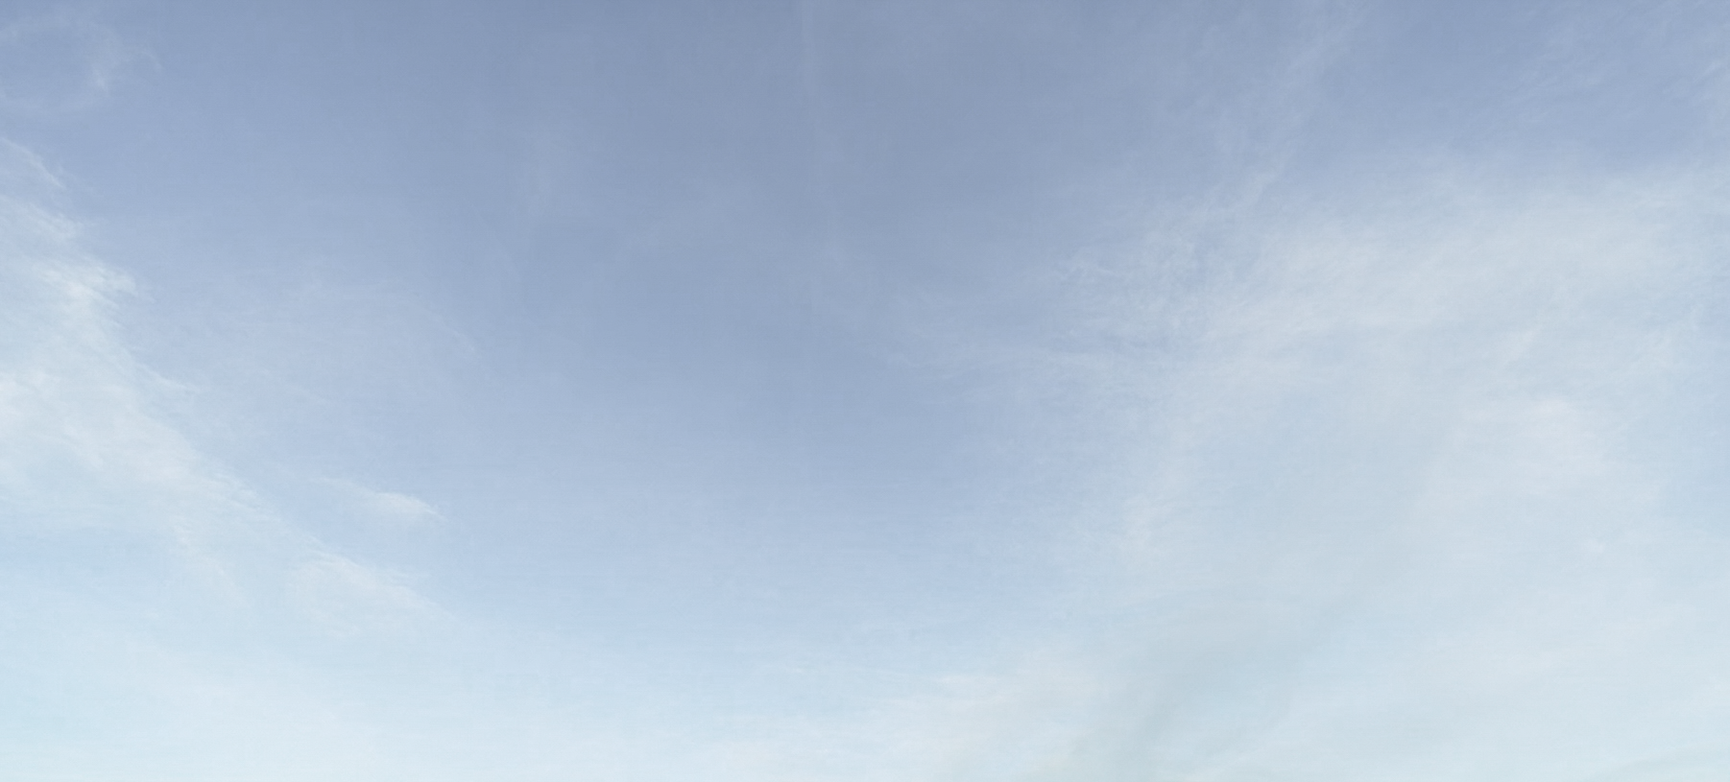
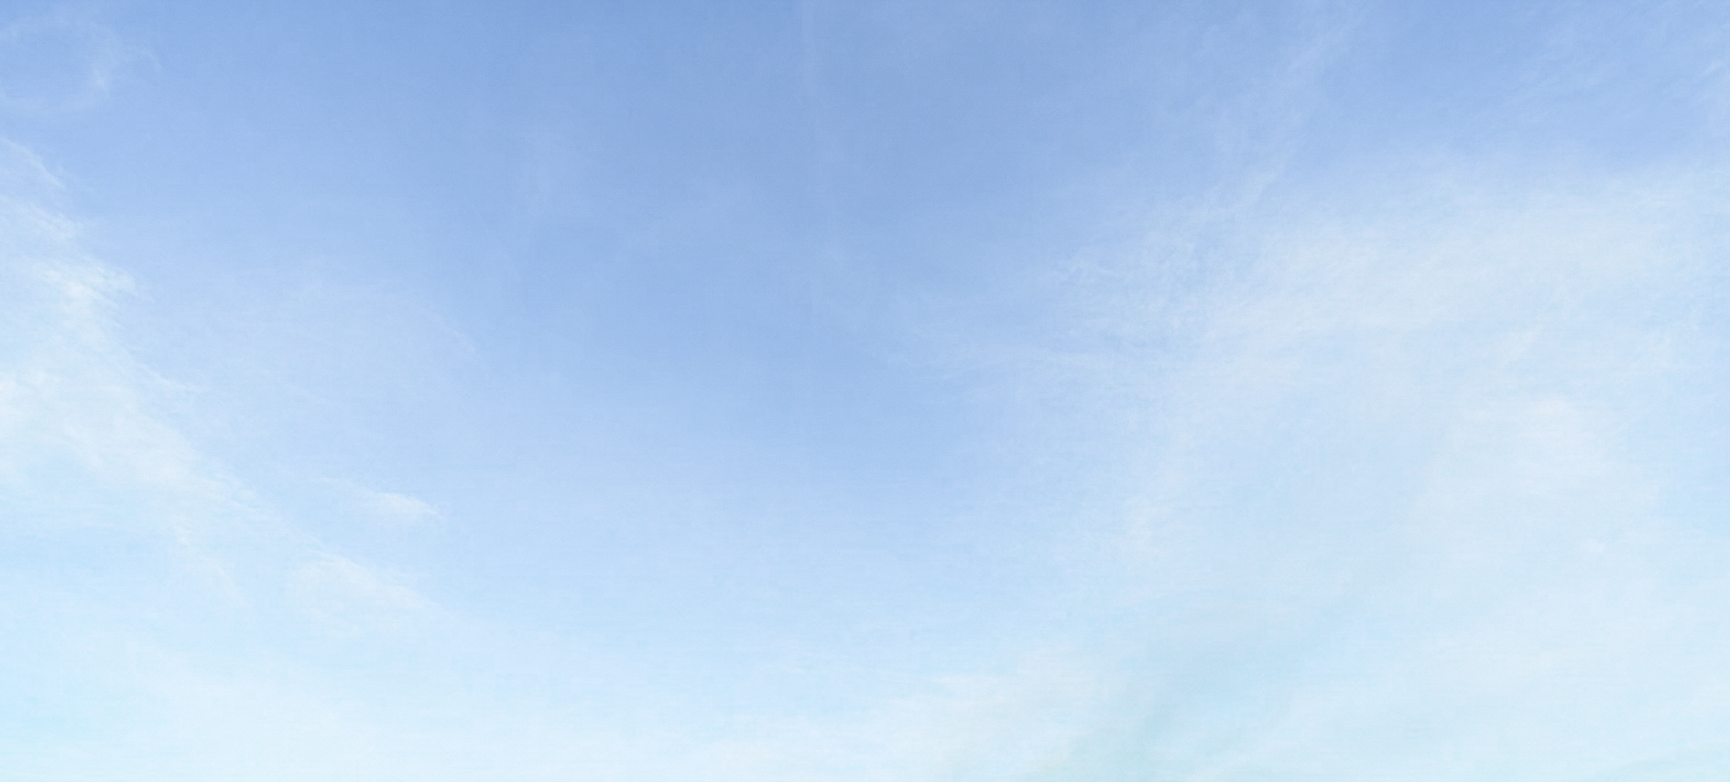
update

diff --git a/src/bottomBanner/details/Cargo/details/delivery/index.js.js b/src/bottomBanner/details/Cargo/details/delivery/index.js.js
@@ -5,18 +5,18 @@ import Warehouse from './details/warehouse';
 
 const Delivery = () => {
   return (
-    <div className='flex flex-col desktop:w-[592px] mobile:w-[346px] desktop:h-[756px] mobile:h-[442px] desktop:rounded-2xl mobile:rounded-[9.351px] relative overflow-hidden z-40 bg-[#FFFFFF]'>
+    <div className='flex relative flex-col desktop:w-[592px] mobile:w-[346px] desktop:h-[756px] mobile:h-[441px] desktop:rounded-2xl mobile:rounded-[9.351px] relative overflow-hidden z-40 bg-[#FFFFFF]'>
         <div className='flex flex-col desktop:mt-[31px] mobile:mt-[20px] desktop:ml-[37px] mobile:ml-[21.63px]'>
             <div className='desktop:w-[450px] mobile:w-[285px] desktop:h-[192px] mobile:h-[128px] font-sfpro font-medium desktop:text-[48px] mobile:text-[32px] desktop:leading-[3rem] mobile:leading-[2rem] desktop:-tracking-[.06em] mobile:-tracking-[.02em] z-40'>Ответственная доставка из Китая в Россию с гарантией качества и сроков.</div>
             <div className='flex  desktop:w-[337px] mobile:w-[197px] desktop:h-[56px] mobile:h-[33px] desktop:rounded-[32px] mobile:rounded-[18.703px] bg-gradient-to-r from-[#EB1988] to-[#005AF9] items-center justify-center font-sfpro font-bold desktop:text-[24px] mobile:text-[14.027px] desktop:leading-[1.95rem] mobile:leading-[1.3rem] desktop:-tracking-[.03em] mobile:-tracking-[.02em] text-white desktop:mt-[40px] mobile:mt-[12.08px] z-40'>Грузы от 1кг до 100 тонн.</div>
-            <div className='flex flex-col desktop:mt-[192px] mobile:mt-[1px] desktop:gap-y-[16px] mobile:gap-y-[9.53px] z-40'>
+            <div className='flex flex-col desktop:mt-[192px] mobile:mt-[101px] desktop:gap-y-[16px] mobile:gap-y-[9.53px] z-40'>
                 <Shiping />
                 <Sending />
                 <Warehouse />
             </div>
         </div>
-        <div className='absolute w-[1802px] h-[815px] -top-[300px] -left-[600px] z-0 brightness-[1.30] saturate-100'><img src='images/sky.png' alt='sky' /></div>
-        <div className='absolute w-[1257px] h-[676px] z-0 top-[275px]'><img src='images/containers.png' alt='cargo' /></div>
+        <div className='absolute desktop:-top-[300px] desktop:-left-[600px] mobile:botoom-[100px] z-0'><img src='images/sky.png' alt='sky' className='desktop:w-[1802px] mobile:w-[1053px] desktop:h-[815px] mobile:h-[476px] brightness-110'/></div>
+        <div className='absolute z-0 desktop:top-[275px] mobile:top-[161px]'><img src='images/containers.png' alt='cargo' className='desktop:w-[1257px] mobile:w-[734.6px] desktop:h-[676px] mobile:h-[395px]'/></div>
     </div>
   )
 };

diff --git a/src/bottomBanner/details/Cargo/details/deliveryCalc/details/information.js b/src/bottomBanner/details/Cargo/details/deliveryCalc/details/information.js
@@ -3,16 +3,16 @@ import Volume from './volume';
 
 const Information = () => {
   return (
-    <div className='flex flex-col desktop:w-[516px] desktop:h-[135px] desktop:mt-[19px]'>
-        <div className='deskotp:w-[274px] desktop:h-[24px] font-sfpro font-bold text-[24px] leading-[1rem] -tracking-[.02em]'>Информация о грузе</div>
-        <div className='flex flex-row font-sfpro desktop:gap-x-[12.23px] desktop:mt-[19px]'>
-            <div className='desktop:w-[249px] desktop:h-[92px]'>
-                <div className='desktop:w-[236px] desktop:h-[18px] font-normal text-[18.427px] leading-[1rem] tracking-[.04em] justify-center'>Общий объём, м³</div>
-                <div className='z-40 desktop:mt-[10px]'><Volume /></div>
+    <div className='flex flex-col desktop:w-[516px] mobile:w-[299px] mobile:w-[298px] mobile:h-[96px] desktop:h-[135px] desktop:mt-[10px] mobile:mt-[5px] z-40'>
+        <div className='deskotp:w-[274px] desktop:h-[24px] font-sfpro font-bold desktop:text-[24px] mobile:text-[14px] leading-[1rem] -tracking-[.02em]'>Информация о грузе</div>
+        <div className='flex flex-row font-sfpro desktop:gap-x-[12.23px] mobile:gap-x-[7.15px] desktop:mt-[19px] mobile:mt-[10px]'>
+            <div className='desktop:w-[249px] mobile:w-[146px] desktop:h-[92px] mobile:h-[60px]'>
+                <div className='desktop:w-[236px] mobile:w-[125px] desktop:h-[18px] mobile:h-[25px] font-normal desktop:text-[18.427px] mobile:text-[10px] leading-[1rem] tracking-[.04em] justify-center'>Общий объём, м³</div>
+                <div className='z-40 desktop:mt-[10px] desktop:w-[249px] mobile:w-[146px]'><Volume /></div>
             </div>
-            <div className='desktop:w-[249px] desktop:h-[92px]'>
-                <div className='desktop:w-[236px] desktop:h-[18px] font-normal text-[18.427px] leading-[1rem] tracking-[.04em] justify-center'>Общий вес, кг</div>
-                <div className='desktop:mt-[10px] z-40'><Volume /></div>
+            <div className='desktop:w-[249px] mobile:w-[146px] desktop:h-[92px] mobile:h-[60px]'>
+                <div className='desktop:w-[236px] mobile:w-[110px] desktop:h-[18px] mobile:h-[25px] font-normal desktop:text-[18.427px] mobile:text-[10px] leading-[1rem] tracking-[.04em] justify-center'>Общий вес, кг</div>
+                <div className='desktop:mt-[10px] z-40 desktop:w-[249px] mobile:w-[146px]'><Volume /></div>
             </div>
         </div>
     </div>

diff --git a/src/bottomBanner/details/Cargo/details/deliveryCalc/details/costType.js b/src/bottomBanner/details/Cargo/details/deliveryCalc/details/costType.js
@@ -3,19 +3,19 @@ import Select from './select'
 
 const CostType = () => {
   return (
-    <div className='flex flex-row font-sfpro desktop:w-[516px] desktop:h-[93px] desktop:mt-[19px] gap-x-[18px]'>
-        <div className='flex flex-col desktop:w-[249px] desktop:h-[93px]'>
-            <div className='desktop:w-[240px] desktop:h-[16px] font-normal text-[16px] leading-[1rem] tracking-[.04em] z-40'>Оценочная стоимость груза, $</div>
+    <div className='flex flex-row font-sfpro desktop:w-[516px] mobile:w-[300px] desktop:h-[93px] mobile:h-[61px] desktop:mt-[19px] mobile:mt-[10px] desktop:gap-x-[18px] mobile:gap-x-[10.52px]'>
+        <div className='flex flex-col desktop:w-[249px] mobile:w-[146px] desktop:h-[93px] mobile:h-[61px]'>
+            <div className='desktop:w-[240px] mobile:w-[146px] desktop:h-[16px] mobile:h-[13px] font-normal desktop:text-[16px] mobile:text-[10px] leading-[1rem] tracking-[.04em] z-40'>Оценочная стоимость груза, $</div>
             <input
                 type='text'
                 placeholder='0.01'
-                className='desktop:w-[249px] desktop:h-[64px] z-40 desktop:rounded-[12.173px] outline-none placeholder:pl-[20.26px] placeholder:pt-[23px] placehodler:text-[#898989] desktop:mt-[13px]'
+                className='desktop:w-[249px] mobile:w-[146px] desktop:h-[64px] mobile:h-[37.4px] z-40 desktop:rounded-[12.173px] mobile:rounded-[7.115px] outline-none placeholder:desktop:pl-[20.26px] placeholder:mobile:pl-[11.84px] placeholder:desktop:pt-[23px] placeholder:mobile:pt-[10px] placeholder:desktop:text-[16px] placeholder:mobile:text-[10px] placehodler:text-[#898989] desktop:mt-[13px] mobile:mt-[9.79px]'
                 >
             </input>
         </div>
-        <div className='z-40 desktop:w-[245px] desktop:h-[93px]'>
-            <div className='desktop:w-[76px] desktop:h-[16px] font-normal text-[16px] leading-[1rem] tracking-[.04em]'>Вид груза</div>
-            <div className='desktop:mt-[13px]'><Select /></div>
+        <div className='flex flex-col z-40 desktop:w-[245px] mobile:w-[144px] desktop:h-[93px] mobile:h-[61px]'>
+            <div className='flex desktop:w-[76px] mobile:w-[60px] desktop:h-[16px] mobile:h-[13px] font-normal desktop:text-[16px] mobile:text-[10px] leading-[1rem] tracking-[.04em]'>Вид груза</div>
+            <div className='flex desktop:mt-[13px] mobile:mt-[9.79px]'><Select /></div>
         </div>
     </div>
   )

diff --git a/src/bottomBanner/details/Cargo/details/deliveryCalc/details/speed.js b/src/bottomBanner/details/Cargo/details/deliveryCalc/details/speed.js
@@ -8,17 +8,17 @@ const Speed = () => {
   };
 
   return (
-    <div className='flex flex-col desktop:w-[516px] desktop:h-[107px] desktop:mt-[19px] font-sfpro desktop:text-[24px] desktop:font-bold desktop:leading-[1rem] desktop:-tracking-[.02em] z-40'>
-      <div className='w-[274px] h-[43px]'>Скорость доставки</div>
-      <div className='flex flex-row desktop:w-[516px] desktop:h-[64px] font-sfpro desktop:text-[18.427px] leading-[1rem] tracking-[.04em] desktop:gap-x-[18px]'>
+    <div className='flex flex-col desktop:w-[516px] mobile:w-[299px] desktop:h-[107px] mobile:h-[66px] desktop:mt-[19px] mobile:mt-[10px] font-sfpro desktop:text-[24px] mobile:text-[14px] desktop:font-bold mobile:font-bold desktop:leading-[1rem] mobile:leading-[1.3rem] desktop:-tracking-[.02em] mobile:-tracking-[.009em] z-40'>
+      <div className='desktop:w-[274px] desktop:h-[43px]'>Скорость доставки</div>
+      <div className='flex flex-row desktop:w-[516px] mobile:w-[298px] desktop:h-[64px] mobile:h-[37.41px] font-sfpro desktop:text-[18.427px] mobile:text-[10px] leading-[1rem] tracking-[.04em] desktop:gap-x-[18px] mobile:gap-x-[7.15px]'>
         <button
-          className={`desktop:w-[249px] desktop:h-[64px] ${selectedButton === 'slow' ? 'bg-black text-white' : 'bg-white text-black'} desktop:rounded-[12.173px]`}
+          className={`desktop:w-[249px] mobile:w-[146px] desktop:h-[64px] mobile:h-[37.41px] ${selectedButton === 'slow' ? 'bg-black text-white' : 'bg-white text-black'} desktop:rounded-[12.173px] mobile:rounded-[10px]`}
           onClick={() => handleButtonClick('slow')}
         >
           Медленная (20-25 дней)
         </button>
         <button
-          className={`desktop:w-[249px] desktop:h-[64px] ${selectedButton === 'fast' ? 'bg-black text-white' : 'bg-white text-black'} desktop:rounded-[12.173px]`}
+          className={`desktop:w-[249px] mobile:w-[146px] desktop:h-[64px] mobile:h-[37.41px] ${selectedButton === 'fast' ? 'bg-black text-white' : 'bg-white text-black'} desktop:rounded-[12.173px] mobile:rounded-[10px]`}
           onClick={() => handleButtonClick('fast')}
         >
           Быстрая (10-15 дней)

diff --git a/src/bottomBanner/details/Cargo/details/delivery/details/shiping.js b/src/bottomBanner/details/Cargo/details/delivery/details/shiping.js
@@ -3,12 +3,12 @@ import Check from '../../../../../../svg/check';
 
 const Shiping = () => {
   return (
-    <div className='flex desktop:w-[515px] mobile:w-[300px] desktop:h-[72px] mobile:h-[42px] shadow-[0_3px_6.7px_0px_rgba(7,22,61,0.05);] border-[1px] border-[#F0F0F0] desktop:rounded-[10px] mobile:rounded-[9.351px] bg-white'>
-        <div className='mt-[24.34px] ml-[22.56px]'><Check /></div>
-        <div className='flex flex-wrap ml-[17px] mt-[15px] h-[42px] w-[350px] font-sfpro'>
-            <div className='font-bold text-[16px] leading-[1.3rem] tracking-[.04em]'>Доставка&nbsp;</div>
-            <div className='font-normal text-[16px] leading-[1.3rem] tracking-[.04em]'>от 10 дней, от 5 кг, от 1.8$.</div>
-            <div className='font-normal text-[16px] leading-[1.3rem] tracking-[.04em]'>Жд перевозки и автодоставка.</div>
+    <div className='flex desktop:w-[515px] mobile:w-[300px] desktop:h-[72px] mobile:h-[42px] shadow-[0_3px_6.7px_0px_rgba(7,22,61,0.05);] border-[1px] border-[#F0F0F0] desktop:rounded-[10px] mobile:rounded-[5.845px] bg-white'>
+        <div className='desktop:mt-[24.34px] mobile:mt-[14.22px] desktop:ml-[22.56px] mobile:ml-[13.19px] desktop:w-[24px] mobile:w-[14px]'><Check /></div>
+        <div className='flex flex-wrap desktop:ml-[17px] mobile:ml-[9.94px] desktop:mt-[15px] mobile:mt-[5px] desktop:h-[42px] mobile:h-[20px] desktop:w-[350px] mobile:w-[301px] font-sfpro'>
+            <div className='font-bold desktop:text-[16px] mobile:text-[9.351px] desktop:leading-[1.3rem] mobile:leading-[1rem] desktop:tracking-[.04em] mobile:tracking-[.04em]'>Доставка&nbsp;</div>
+            <div className='font-normal desktop:text-[16px] mobile:text-[9.351px] desktop:leading-[1.3rem] mobile:leading-[1rem] desktop:tracking-[.04em] mobile:tracking-[.04em]'>от 10 дней, от 5 кг, от 1.8$.</div>
+            <div className='font-normal desktop:text-[16px] mobile:text-[9.351px] desktop:leading-[1.3rem] mobile:leading-[0.5rem] desktop:tracking-[.04em] mobile:tracking-[.04em]'>Жд перевозки и автодоставка.</div>
         </div>
     </div>
   )

diff --git a/src/bottomBanner/details/Cargo/details/deliveryCalc/index.js b/src/bottomBanner/details/Cargo/details/deliveryCalc/index.js
@@ -10,17 +10,17 @@ import Speed from './details/speed';
 
 const DeliveryCalc = () => {
   return (
-    <div className='w-[592px] h-[756px] rounded-2xl relative overflow-hidden bg-[#FFFFFF]'>
-        <div className='flex flex-col mt-[31px] ml-[41px]'>
-            <div className='w-[411px] h-[96px] font-sfpro font-medium text-[48px] leading-[3rem] -tracking-[.06em]'>Калькулятор доставки из Китая</div>
+    <div className='desktop:w-[592px] mobile:w-[346px] desktop:h-[756px] mobile:h-[530px] desktop:rounded-2xl mobile:rounded-[9.351px] relative overflow-hidden bg-[#FFFFFF]'>
+        <div className='flex flex-col desktop:mt-[31px] mobile:mt-[21px] desktop:ml-[41px] mobile:ml-[24px]'>
+            <div className='desktop:w-[411px] mobile:w-[271px] desktop:h-[96px] mobile:h-[64px] font-sfpro font-medium desktop:text-[48px] mobile:text-[32px] desktop:leading-[3rem] mobile:leading-[2rem] desktop:-tracking-[.06em] mobile:-tracking-[.02em]'>Калькулятор доставки из Китая</div>
             <Speed />
             <Information />
             <CostType />
             <Estimated />
             <CostButton />
-            <div className='absolute top-[450px] -left-[300px] blur-[237px] z-0'><BigYellowCircle /></div>
-            <div className='absolute top-[500px] left-[120px] blur-[237px] z-10'><PinkCircle /></div>
-            <div className='absolute z-0 top-[64px] left-[1px] z-0'><BigBlueCircle /></div>
+            <div className='absolute desktop:top-[450px] desktop:-left-[300px] blur-[237px] z-0'><BigYellowCircle /></div>
+            <div className='absolute desktop:top-[500px] desktop:left-[120px] blur-[237px] z-10'><PinkCircle /></div>
+            <div className='absolute z-0 desktop:top-[64px] desktop:left-[1px] z-0'><BigBlueCircle /></div>
         </div>
     </div>
   )

diff --git a/src/middleBanner/details/logistics/details/checking/second/index.js b/src/middleBanner/details/logistics/details/checking/second/index.js
@@ -17,9 +17,9 @@ const Second = () => {
             <div className='flex absolute ml-[25px] mt-[214px] w-[215px] h-[121px] backdrop-blur-sm desktop:flex tablet:flex mobile:hidden'><RemarkaMiddle /></div>
             <div className='absolute desktop:hidden tablet:hidden mobile:flex mobile:top-[23px] mobile:left-[21px] backdrop-blur-[51px] mobile:w-[235px] mobile:h-[121px] rounded-[16px]'/>
             <div className='absolute desktop:hidden tablet:hidden mobile:flex mobile:top-[154px] mobile:left-[21px] backdrop-blur-[51px] mobile:w-[235px] mobile:h-[121px] rounded-[16px]' />
-            <div className='absolute desktop:top-[101px] mobile:top-[52px] desktop:left-[49px] mobile:left-[45px]'><Check /></div>
+            <div className='absolute desktop:top-[101px] mobile:top-[52px] desktop:left-[49px] mobile:left-[45px] desktop:w-[24px] mobile:w-[24px]'><Check /></div>
             <div className='absolute w-[165px] h-[63px] desktop:top-[101px] mobile:top-[52px] desktop:left-[84px] mobile:left-[80px] font-sfpro font-normal text-[16px] text-[#4F4F4F] leading-[1.3rem] tracking-[.04em]'>Чистый сухой склад для хранения вашего товара.</div>
-            <div className='flex absolute desktop:left-[52px] mobile:left-[45px] desktop:top-[243px] mobile:top-[183px]'><Check /></div>
+            <div className='flex absolute desktop:left-[52px] mobile:left-[45px] desktop:top-[243px] mobile:top-[183px] desktop:w-[24px] mobile:w-[24px]'><Check /></div>
             <div className='absolute w-[116px] h-[63px desktop:left-[87px] mobile:left-[84px] desktop:top-[243px] mobile:top-[183px] font-sfpro font-normal text-[16px] text-[#4F4F4F] leading-[1.3rem] tracking-[.04em]'>Дешевле, чем на складе маркетплейса.</div>
         </div>
     </div> 

diff --git a/src/bottomBanner/details/Cargo/details/delivery/details/sending.js b/src/bottomBanner/details/Cargo/details/delivery/details/sending.js
@@ -1,13 +1,14 @@
 import React from 'react'
 import Check from '../../../../../../svg/check';
 
+
 const Sending = () => {
   return (
-    <div className='flex w-[515px] h-[72px] shadow-[0_3px_6.7px_0px_rgba(7,22,61,0.05);] border-[1px] border-[#F0F0F0] rounded-[10px] bg-white'>
-        <div className='mt-[20px] ml-[22.56px]'><Check /></div>
-        <div className='flex ml-[17px] mt-[21.5px] h-[21px] w-[456px] font-sfpro'>
-            <div className='font-bold text-[16px] leading-[1.3rem] tracking-[.04em]'>Отправляем&nbsp;</div>
-            <div className='font-normal text-[16px] leading-[1.3rem] tracking-[.04em]'>ТК по РФ, РБ, КЗ или отгрузка самовывозом.</div>
+    <div className='flex desktop:w-[515px] mobile:w-[300px] desktop:h-[72px] mobile:h-[36px] shadow-[0_3px_6.7px_0px_rgba(7,22,61,0.05);] border-[1px] border-[#F0F0F0] desktop:rounded-[10px] mobile:rounded-[5.845px] bg-white'>
+        <div className='desktop:mt-[20px] mobile:mt-[11.69px] desktop:ml-[22.56px] mobile:ml-[13.19px] desktop:w-[24px] mobile:w-[14px]'><Check /></div>
+        <div className='flex desktop:ml-[17px] mobile:ml-[9.94px] desktop:mt-[21.5px] mobile:mt-[10px] desktop:w-[456px] mobile:w-[267px] desktop:h-[21px] mobile:h-[12px] font-sfpro'>
+            <div className='font-bold desktop:text-[16px] mobile:text-[9.351px] leading-[1rem] tracking-[.04em]'>Отправляем&nbsp;</div>
+            <div className='font-normal desktop:text-[16px] mobile:text-[9.351px] leading-[1rem] tracking-[.04em]'>ТК по РФ, РБ, КЗ или отгрузка самовывозом.</div>
         </div>
     </div>
   )

diff --git a/src/bottomBanner/details/Cargo/details/delivery/details/warehouse.js b/src/bottomBanner/details/Cargo/details/delivery/details/warehouse.js
@@ -3,11 +3,11 @@ import Check from '../../../../../../svg/check';
 
 const Warehouse = () => {
   return (
-    <div className='flex w-[515px] h-[72px] shadow-[0_3px_6.7px_0px_rgba(7,22,61,0.05);] border-[1px] border-[#F0F0F0] rounded-[10px] bg-white'>
-        <div className='mt-[20px] ml-[22.56px]'><Check /></div>
-        <div className='flex ml-[17px] mt-[20px] h-[21.3px] w-[448px] font-sfpro'>
-            <div className='font-bold text-[16px] leading-[1.3rem] tracking-[.04em]'>Свои склады и офисы&nbsp;</div>
-            <div className='font-normal text-[16px] leading-[1.3rem] tracking-[.04em]'>в Москве, Иу, Гуанчжоу.</div>
+    <div className='flex desktop:w-[515px] mobile:w-[301px] desktop:h-[72px] mobile:h-[37px] shadow-[0_3px_6.7px_0px_rgba(7,22,61,0.05);] border-[1px] border-[#F0F0F0] desktop:rounded-[10px] mobile:rounded-[5.845px] bg-white'>
+        <div className='desktop:mt-[20px] mobile:mt-[11.69px] desktop:ml-[22.56px] mobile:ml-[13.19px] desktop:w-[24px] mobile:w-[14px]'><Check /></div>
+        <div className='flex desktop:ml-[17px] mobile:ml-[9.94px] desktop:mt-[20px] mobile:mt-[10px] desktop:h-[21.3px] mobile:h-[37px] desktop:w-[448px] mobile:w-[301px] font-sfpro'>
+            <div className='font-bold desktop:text-[16px] mobile:text-[9.351px] leading-[1rem] tracking-[.04em]'>Свои склады и офисы&nbsp;</div>
+            <div className='font-normal desktop:text-[16px] mobile:text-[9.351px] leading-[1rem] tracking-[.04em]'>в Москве, Иу, Гуанчжоу.</div>
         </div>
     </div>
   )

diff --git a/src/bottomBanner/details/Cargo/index.js b/src/bottomBanner/details/Cargo/index.js
@@ -4,12 +4,12 @@ import DeliveryCalc from './details/deliveryCalc/index.js';
 
 const Cargo = () => {
   return (
-    <div className='flex flex-col desktop:w-[1208px] mobile:w-[386px] items-center desktop:mt-[120px] mobile:mt-[80px]'>
-        <div className='flex flex-col font-sfpro desktop:w-[1110px] mobile:w-[285px] font-medium desktop:text-[64px] mobile:text-[32px] desktop:leading-[3rem] mobile:leading-[2rem] desktop:-tracking-[.03em] text-center'>
+    <div className='flex flex-col desktop:w-[1208px] mobile:w-[386px] mobile:h-[1023px] items-center desktop:mt-[120px] mobile:mt-[80px]'>
+        <div className='flex flex-col font-sfpro desktop:w-[1110px] mobile:w-[346px] font-medium desktop:text-[64px] mobile:text-[40px] desktop:leading-[3rem] mobile:leading-[2rem] desktop:-tracking-[.03em] text-center'>
             <div>Карго доставка</div>
             <div className='desktop:mt-[18px]'>из Китая в Москву</div>
         </div>
-        <div className='flex desktop:flex-row mobile:flex-col desktop:w-[1208px] mobile:w-[386px] desktop:h-[756px] mobile:h-[900px] desktop:mt-[40px] mobile:mt-[40px] desktop:gap-x-6 mobile:items-center'>
+        <div className='flex desktop:flex-row mobile:flex-col desktop:w-[1208px] mobile:w-[386px] desktop:h-[756px] mobile:h-[905px] desktop:mt-[40px] mobile:mt-[40px] desktop:gap-x-6 mobile:gap-y-5 mobile:items-center'>
             <Delivery />
             <DeliveryCalc />
         </div>

diff --git a/src/bottomBanner/details/Cargo/details/deliveryCalc/details/select.js b/src/bottomBanner/details/Cargo/details/deliveryCalc/details/select.js
@@ -20,19 +20,19 @@ const Select = () => {
       <div>
         <button
           type="button"
-          className="inline-flex font-bold w-[245px] h-[64px] rounded-xl bg-white focus:outline-none transition duration-300 relative"
+          className="inline-flex font-bold desktop:w-[245px] mobile:w-[144px] desktop:h-[64px] mobile:h-[37.4px] desktop:rounded-xl mobile:rounded-[7.115px] bg-white focus:outline-none transition duration-300 relative"
           onClick={toggleMenu}
         >
-          <div className='mt-[22px] ml-[23px]'>{selectedCategory}</div>
+          <div className='desktop:mt-[22px] mobile:mt-[12.86px] desktop:ml-[23px] mobile:ml-[12.57px] desktop:text-[16px] mobile:text-[10px]'>{selectedCategory}</div>
           {selectedCategory && !isMenuOpen && (
-            <div className="absolute left-[200px] top-[26px]">
+            <div className="absolute desktop:left-[200px] mobile:left-[120px] desktop:top-[26px] mobile:top-[14px]">
               <div className='rotate-180'><VectorUp /></div>
             </div>
           )}
         </button>
       </div>
       {isMenuOpen && (
-        <div className="absolute w-[245px] rounded-xl -top-[0px] shadow-lg bg-white z-40">
+        <div className="absolute desktop:w-[245px] mobile:w-[144px] rounded-xl top-0 shadow-lg bg-white z-40">
           <div className="">
             {categories.map((category) => (
               <button

diff --git a/src/bottomBanner/details/Cargo/details/deliveryCalc/details/estimated.js b/src/bottomBanner/details/Cargo/details/deliveryCalc/details/estimated.js
@@ -2,11 +2,11 @@ import React from 'react'
 
 const Estimated = () => {
   return (
-    <div className='desktop:w-[241px] desktop:h-[93px] desktop:mt-[23px]'>
-        <div className='font-sfpro font-bold desktop:text-[24px] leading-[1.3rem] desktop:-tracking-[.02em]'>Примерная стоимость</div>
-        <div className='flex flex-row desktop:w-[241px] desktop:h-[64px] desktop:mt-[25px] font-sfpro font-bold z-30'>
-            <div className='text-[40px] leading-[2rem] -tracking-[.02em]'>от&nbsp;</div>
-            <div className='text-[64px] leading-[1rem] -tracking-[.02em]'>$1000</div>
+    <div className='desktop:w-[241px] mobile:w-[290px] desktop:h-[93px] mobile:h-[61px] desktop:mt-[23px] mobile:mt-[18px] z-40'>
+        <div className='font-sfpro font-bold desktop:text-[24px] mobile:text-[14px] leading-[1.3rem] desktop:-tracking-[.02em]'>Примерная стоимость</div>
+        <div className='flex flex-row desktop:w-[241px] mobile:w-[180px] desktop:h-[64px] mobile:h-[37px] desktop:mt-[25px] mobile:mt-[8px] font-sfpro font-bold z-30'>
+            <div className='desktop:text-[40px] mobile:text-[23.3px] leading-[2rem] -tracking-[.02em]'>от&nbsp;</div>
+            <div className='desktop:text-[64px] mobile:text-[37px] leading-[1rem] -tracking-[.02em]'>$1000</div>
         </div>
     </div>
   )
